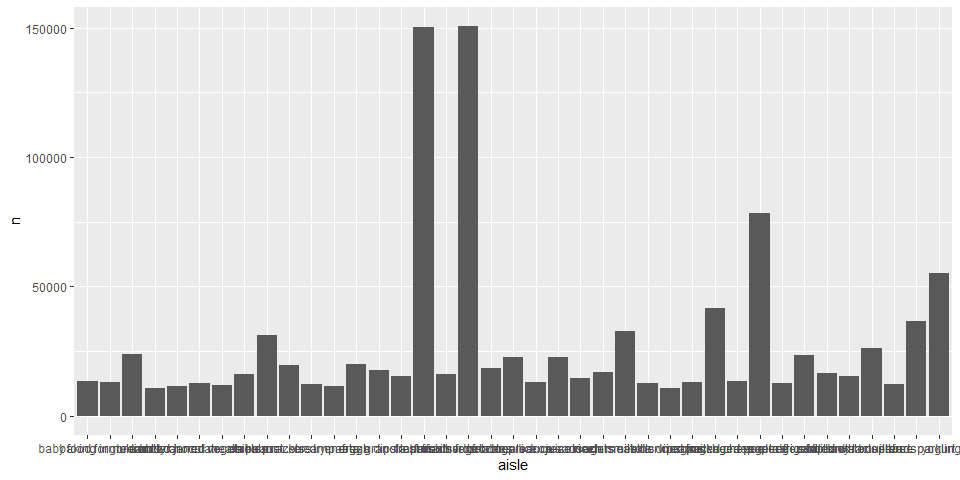
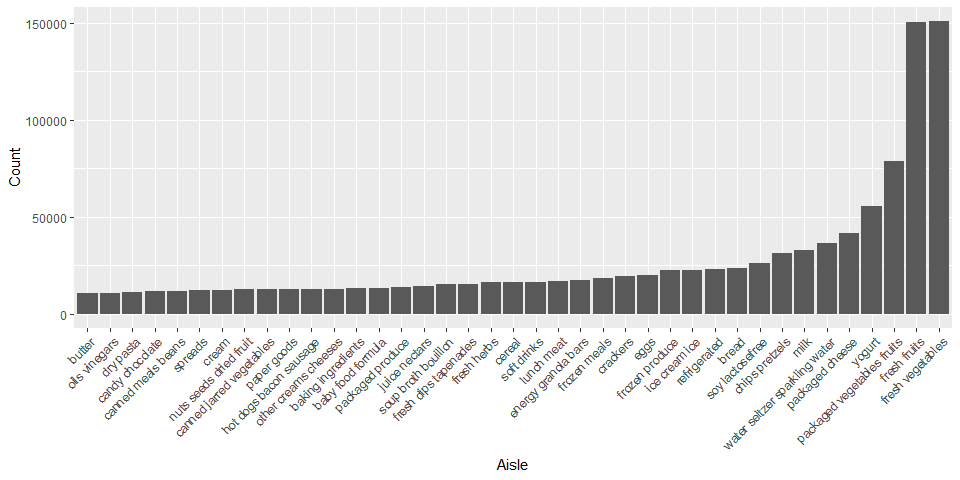
Added comments, made cosmetic changes

diff --git a/p8105_hw3_jsg2145.md b/p8105_hw3_jsg2145.md
@@ -9,25 +9,27 @@ data("instacart")
 data("brfss_smart2010")
 ```
 
+## Problem 1
+
 The “instacart” dataset is 1384617 rows by 15 columns.
 
 There are a few variables that appear to be key to telling us what the
 dataset is.
 
-The variable “product\_name” is an item that was placed in a cart. Order
-have an “order\_id” number.
+The variable “product\_name” is an item that was placed in a cart.
+Orders have an “order\_id” number.
 
 Each item in a cart has an “add\_to\_cart\_order”, for instance, in the
-head of the data, “order\_id” 1
+head of the data, “order\_id” = 1
 
-had 8 items added, 1 through 8 and “add\_to\_cart\_order” gives the
-order in which the
+had 8 items added, numbered 1 through 8, and “add\_to\_cart\_order”
+gives the order in which the
 
 items were added. There are columns that tell the time of day of the
 order, the days
 
-since the prior order, and whether a specific item was reordered or not.
-There are
+since the prior order, and whether a specific item had been reordered or
+not. There are
 
 also details about where the item is found (aisle, department)
 
@@ -39,10 +41,13 @@ aisle_dat <- instacart %>%
   arrange(desc(count))
 ```
 
-## Problem 1
+There are 134 aisles, and “fresh vegetables” was the aisle the most
+items were ordered from.
 
-There are 134 aisles, and fresh vegetables was the aisle the most items
-were ordered from.
+Fresh fruit and vegetables are the top two aisles from which items were
+ordered by a significant margin,
+
+with packaged fruit and vegetables coming in a distant third.
 
 ``` r
 instacart %>% 
@@ -51,13 +56,19 @@ instacart %>%
   filter(
     n > 10000
   ) %>% 
-  ggplot(aes(x = aisle, y = n)) +
+  ggplot(aes(x = reorder(aisle, n), y = n)) +
   geom_col() +
-  labs(xlab = "Count",
-       ylab = "Aisle")
+  labs(x = "Aisle",
+       y = "Count") +
+  theme(axis.text.x = element_text(angle = 45, vjust = 1, hjust=1))
 ```
 
 ![](p8105_hw3_jsg2145_files/figure-gfm/unnamed-chunk-3-1.png)<!-- -->
+
+This plot shows the top 39 most ordered from aisles. This represents the
+top 29.1044776 percent
+
+of aisles ordered from over the time period of the data.
 
 ``` r
 instacart %>% 
@@ -96,6 +107,17 @@ instacart %>%
 | Packaged Vegetables Fruits | Organic Raspberries                             |  1920 |
 | Packaged Vegetables Fruits | Organic Blueberries                             |  1692 |
 
+This table shows the top three items ordered from the aisles “baking
+ingredients”,
+
+“dog food care”, and “packaged vegetables fruits” in the time period of
+the data. There is a wide range in the
+
+number of times each item was ordered. Dog food may not be something
+many people think to have
+
+delivered from a grocery store.
+
 ``` r
 instacart %>% 
   filter(product_name == c("Pink Lady Apples", "Coffee Ice Cream")) %>% 
@@ -122,6 +144,33 @@ instacart %>%
 | Coffee Ice Cream |   13.2 |   15.0 |    15.3 |      15.4 |     15.2 |   10.3 |     12.4 |
 | Pink Lady Apples |   12.2 |   11.7 |    12.0 |      13.9 |     11.9 |   13.9 |     11.6 |
 
+``` r
+instacart %>% 
+  filter(product_name == c("Pink Lady Apples", "Coffee Ice Cream")) %>% 
+  group_by(product_name, order_dow) %>% 
+  summarize(
+    mean_hr = round(mean(order_hour_of_day), digits = 1)
+  ) %>% 
+  mutate(
+    order_dow = factor(order_dow, 
+                       labels = c("Sunday", "Monday", "Tuesday", "Wednesday", "Thursday", "Friday", "Saturday"))) %>%
+  ggplot(aes(x = order_dow, y = mean_hr, color = product_name)) +
+  geom_point() + 
+  geom_smooth(se = FALSE)
+```
+
+    ## Warning in product_name == c("Pink Lady Apples", "Coffee Ice Cream"):
+    ## longer object length is not a multiple of shorter object length
+
+    ## `geom_smooth()` using method = 'loess' and formula 'y ~ x'
+
+![](p8105_hw3_jsg2145_files/figure-gfm/unnamed-chunk-6-1.png)<!-- -->
+
+This table shows the time of day these items were ordered. It appears
+Coffee Ice Cream was
+
+ordered later in the day most days except for Fridays for some reason.
+
 ## Problem 2
 
 ``` r
@@ -139,7 +188,7 @@ brfss_smart2010 <- brfss_smart2010 %>%
 ```
 
 ``` r
-brfss_smart2010 %>% 
+many_loc_02 <- brfss_smart2010 %>% 
   filter(year == 2002) %>% 
   select(state) %>% 
   group_by(state) %>% 
@@ -150,47 +199,11 @@ brfss_smart2010 %>%
   knitr::kable()
 ```
 
-| State          | Locations |
-| :------------- | --------: |
-| Arizona        |        10 |
-| Colorado       |        20 |
-| Connecticut    |        35 |
-| Delaware       |        15 |
-| Florida        |        35 |
-| Georgia        |        15 |
-| Hawaii         |        20 |
-| Idaho          |        10 |
-| Illinois       |        15 |
-| Indiana        |        10 |
-| Kansas         |        15 |
-| Louisiana      |        15 |
-| Maine          |        10 |
-| Maryland       |        30 |
-| Massachusetts  |        40 |
-| Michigan       |        20 |
-| Minnesota      |        20 |
-| Missouri       |        10 |
-| Nebraska       |        15 |
-| Nevada         |        10 |
-| New Hampshire  |        25 |
-| New Jersey     |        40 |
-| New York       |        25 |
-| North Carolina |        35 |
-| Ohio           |        20 |
-| Oklahoma       |        15 |
-| Oregon         |        15 |
-| Pennsylvania   |        50 |
-| Rhode Island   |        20 |
-| South Carolina |        15 |
-| South Dakota   |        10 |
-| Tennessee      |        10 |
-| Texas          |        10 |
-| Utah           |        25 |
-| Vermont        |        15 |
-| Washington     |        20 |
+There are states with 7 or more locations included in the BRFSS data in
+2002.
 
 ``` r
-brfss_smart2010 %>% 
+many_loc_10 <- brfss_smart2010 %>% 
   filter(year == 2010) %>% 
   select(state, locationdesc) %>% 
   group_by(state) %>% 
@@ -201,53 +214,8 @@ brfss_smart2010 %>%
   knitr::kable()
 ```
 
-| State          | Locations |
-| :------------- | --------: |
-| Alabama        |        15 |
-| Arizona        |        15 |
-| Arkansas       |        15 |
-| California     |        60 |
-| Colorado       |        35 |
-| Connecticut    |        25 |
-| Delaware       |        15 |
-| Florida        |       205 |
-| Georgia        |        20 |
-| Hawaii         |        20 |
-| Idaho          |        30 |
-| Illinois       |        10 |
-| Indiana        |        15 |
-| Iowa           |        10 |
-| Kansas         |        20 |
-| Louisiana      |        25 |
-| Maine          |        30 |
-| Maryland       |        60 |
-| Massachusetts  |        45 |
-| Michigan       |        20 |
-| Minnesota      |        25 |
-| Mississippi    |        10 |
-| Missouri       |        15 |
-| Montana        |        15 |
-| Nebraska       |        50 |
-| Nevada         |        10 |
-| New Hampshire  |        25 |
-| New Jersey     |        95 |
-| New Mexico     |        30 |
-| New York       |        45 |
-| North Carolina |        60 |
-| North Dakota   |        15 |
-| Ohio           |        40 |
-| Oklahoma       |        15 |
-| Oregon         |        20 |
-| Pennsylvania   |        35 |
-| Rhode Island   |        25 |
-| South Carolina |        35 |
-| South Dakota   |        10 |
-| Tennessee      |        25 |
-| Texas          |        80 |
-| Utah           |        30 |
-| Vermont        |        30 |
-| Washington     |        50 |
-| Wyoming        |        10 |
+By 2010, there were states with 7 or more locations included in the
+data.
 
 ``` r
 df <- brfss_smart2010 %>% 
@@ -263,20 +231,27 @@ df <- brfss_smart2010 %>%
 df %>% 
   ggplot(aes(x = year, y = mean_dat, group = state, color = state)) +
   geom_line() +
-  theme(legend.position = "bottom") +
+  theme(legend.position = "none") +
   viridis::scale_color_viridis(
     name = "state",
-    discrete = TRUE)
+    discrete = TRUE) +
+  labs(
+    x = "Year",
+    y = "Average Crude Prevalence of 'Excellent' Health (%)"
+  )
 ```
 
     ## Warning: Removed 2 rows containing missing values (geom_path).
 
-![](p8105_hw3_jsg2145_files/figure-gfm/unnamed-chunk-10-1.png)<!-- -->
+![](p8105_hw3_jsg2145_files/figure-gfm/unnamed-chunk-11-1.png)<!-- -->
+
+This chart shows the crude prevalence of a response of “excellent” to
+the question “How is your general health?”
 
 ``` r
 brfss_smart2010 %>% 
   filter(state == "New York",
-         year == c(2006, 2010)) %>% 
+         year %in% c(2006, 2010)) %>% 
   ggplot(aes(x = response, y = data_value)) +
   geom_boxplot() +
   labs(x = "Response",
@@ -284,10 +259,7 @@ brfss_smart2010 %>%
   facet_grid(~year)
 ```
 
-    ## Warning in year == c(2006, 2010): longer object length is not a multiple of
-    ## shorter object length
-
-![](p8105_hw3_jsg2145_files/figure-gfm/unnamed-chunk-11-1.png)<!-- -->
+![](p8105_hw3_jsg2145_files/figure-gfm/unnamed-chunk-12-1.png)<!-- -->
 
 ## Problem 3
 
@@ -324,7 +296,7 @@ subject at each interval.
 
     ## `geom_smooth()` using method = 'loess' and formula 'y ~ x'
 
-![](p8105_hw3_jsg2145_files/figure-gfm/unnamed-chunk-13-1.png)<!-- -->
+![](p8105_hw3_jsg2145_files/figure-gfm/unnamed-chunk-14-1.png)<!-- -->
 
 ``` r
 accel_dat %>% 
@@ -372,17 +344,16 @@ accel_dat %>%
 
 ``` r
 accel_dat %>% 
-  group_by(day_id, weekday) %>%
+  group_by(day_id, day) %>%
   mutate(
     day_act = cumsum(activity)
   ) %>% 
   summarize(
     day_act = last(day_act)
   ) %>% 
-  rename(Weekday = weekday) %>% 
-  ggplot(aes(x = day_id, y = day_act, color = Weekday)) +
+  rename(Day = day) %>% 
+  ggplot(aes(x = day_id, y = day_act, color = Day)) +
   geom_point() + 
-  geom_smooth(se = FALSE) +
   labs(
     x = "Day of Study (1-35)",
     y = "Total Activity"
@@ -391,9 +362,7 @@ accel_dat %>%
   scale_x_discrete(limits = 0:36)
 ```
 
-    ## `geom_smooth()` using method = 'loess' and formula 'y ~ x'
-
-![](p8105_hw3_jsg2145_files/figure-gfm/unnamed-chunk-15-1.png)<!-- -->
+![](p8105_hw3_jsg2145_files/figure-gfm/unnamed-chunk-16-1.png)<!-- -->
 
 ``` r
 accel_dat %>% 
